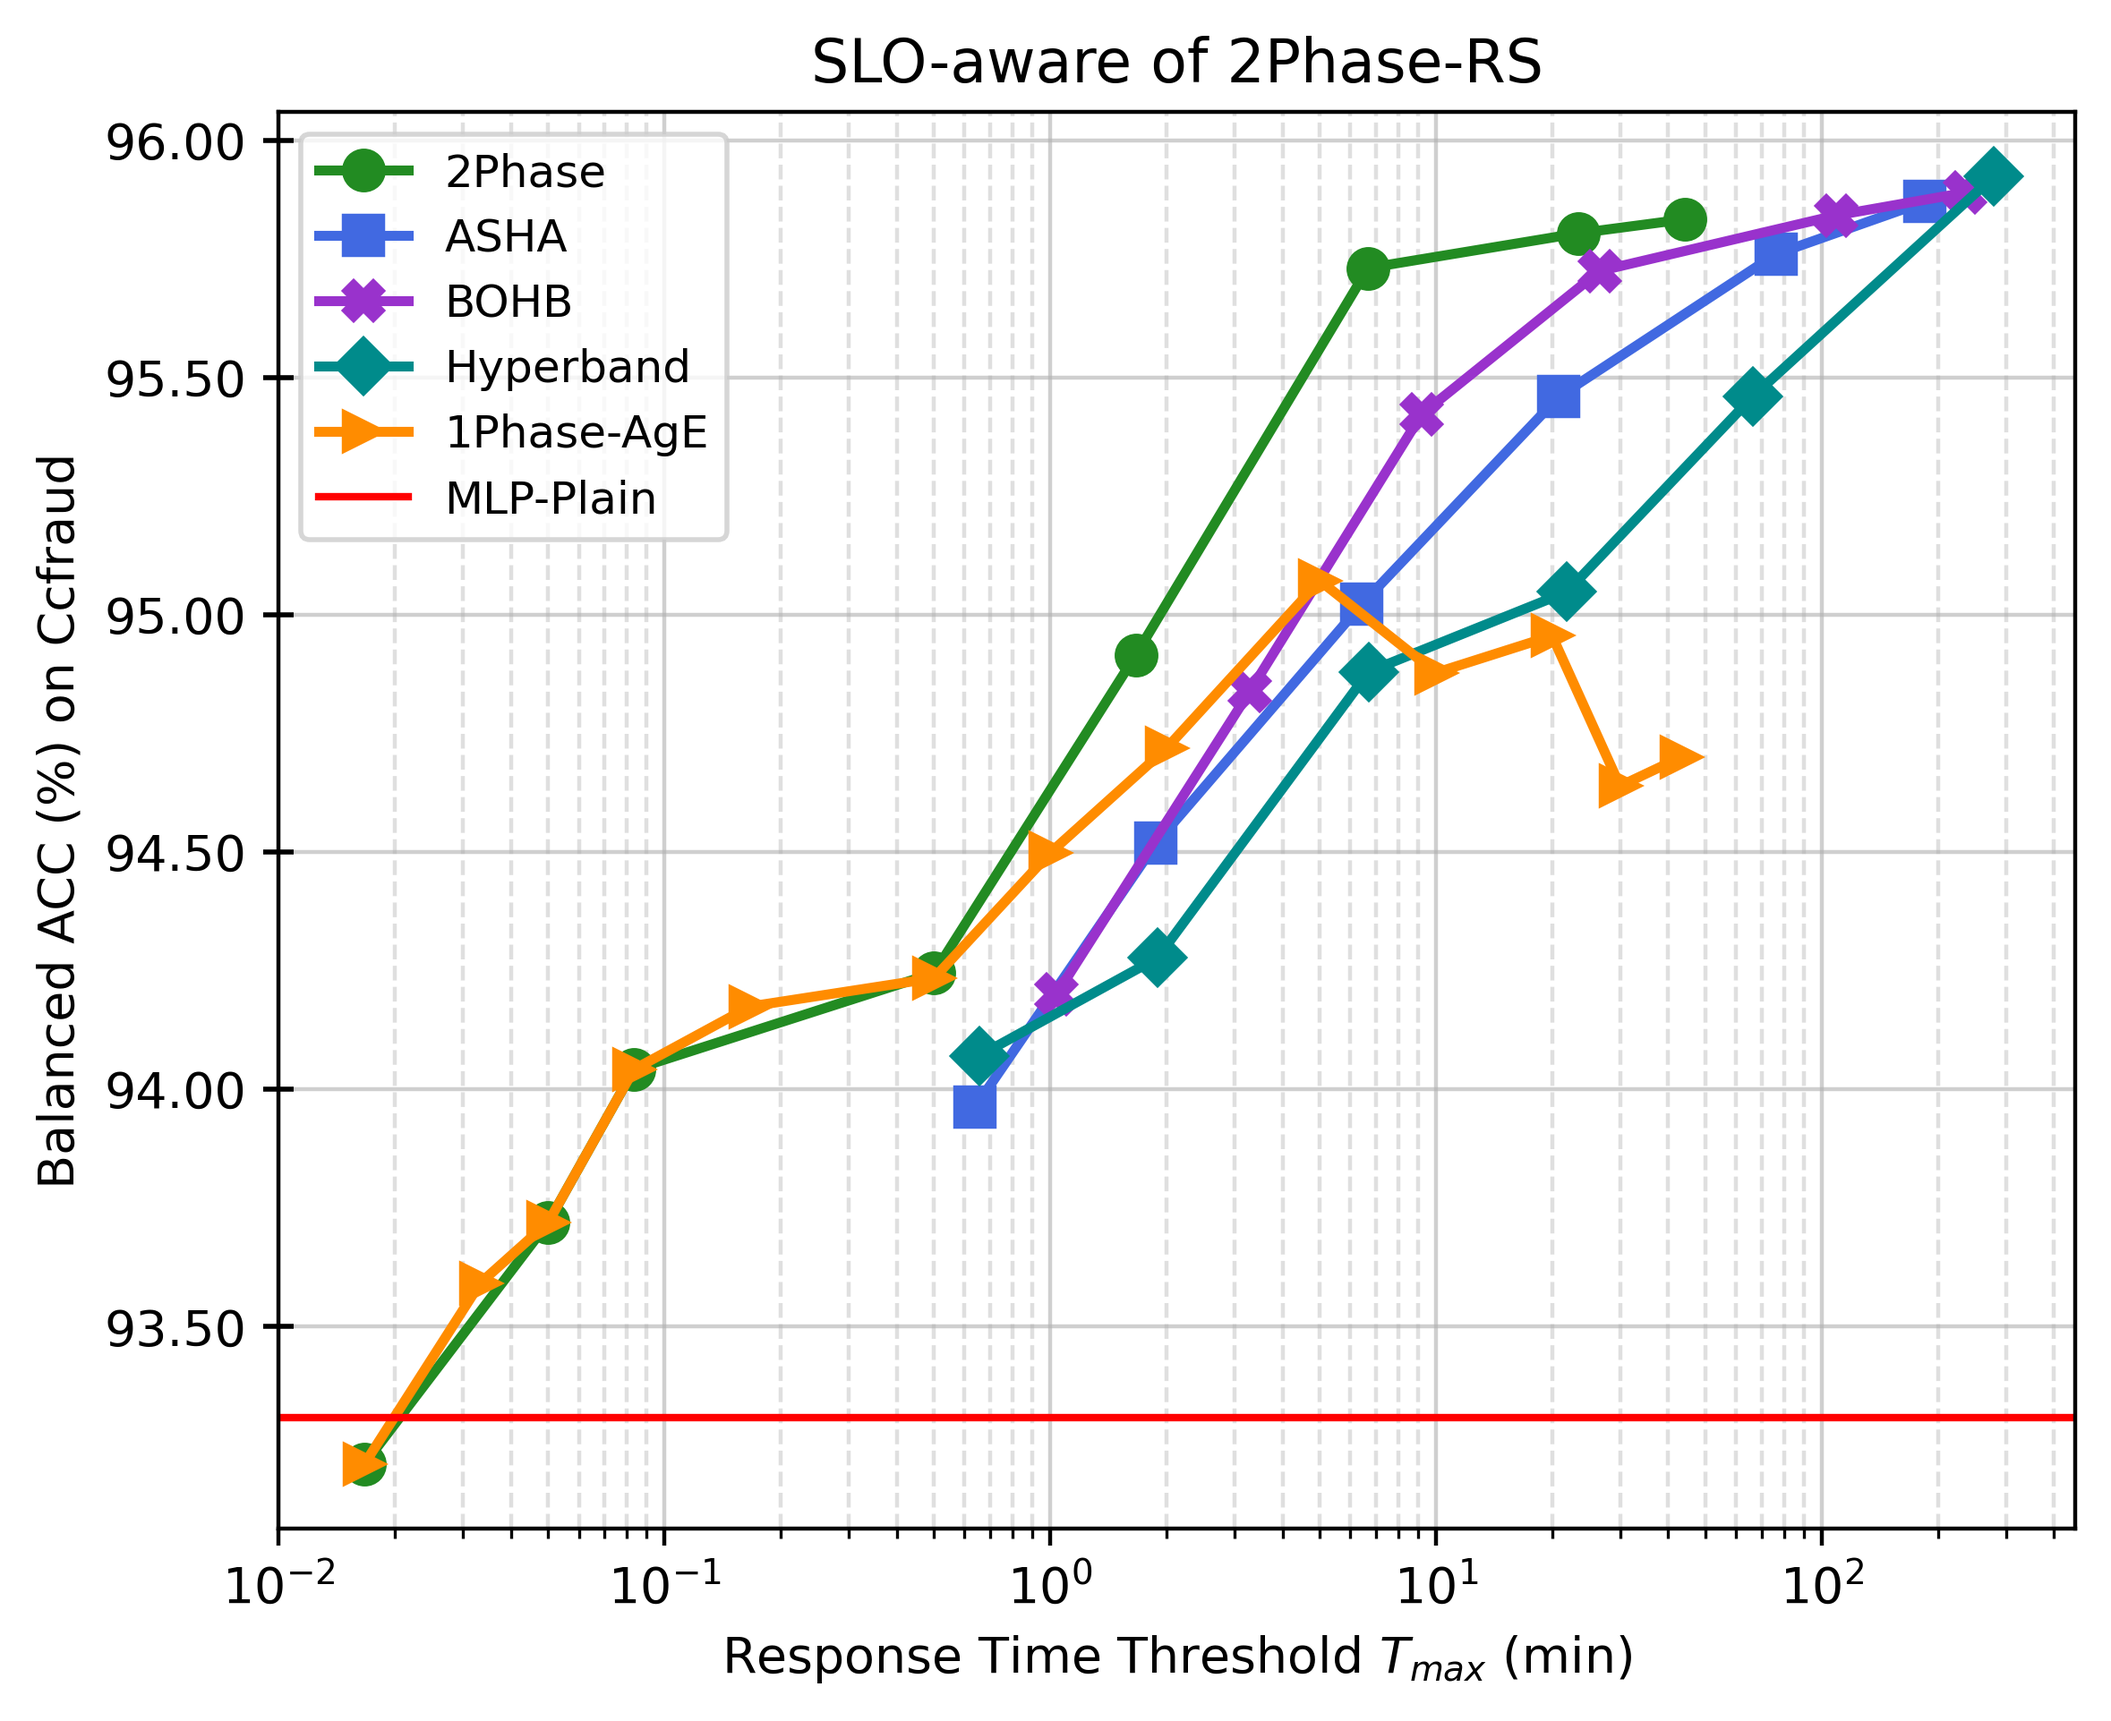
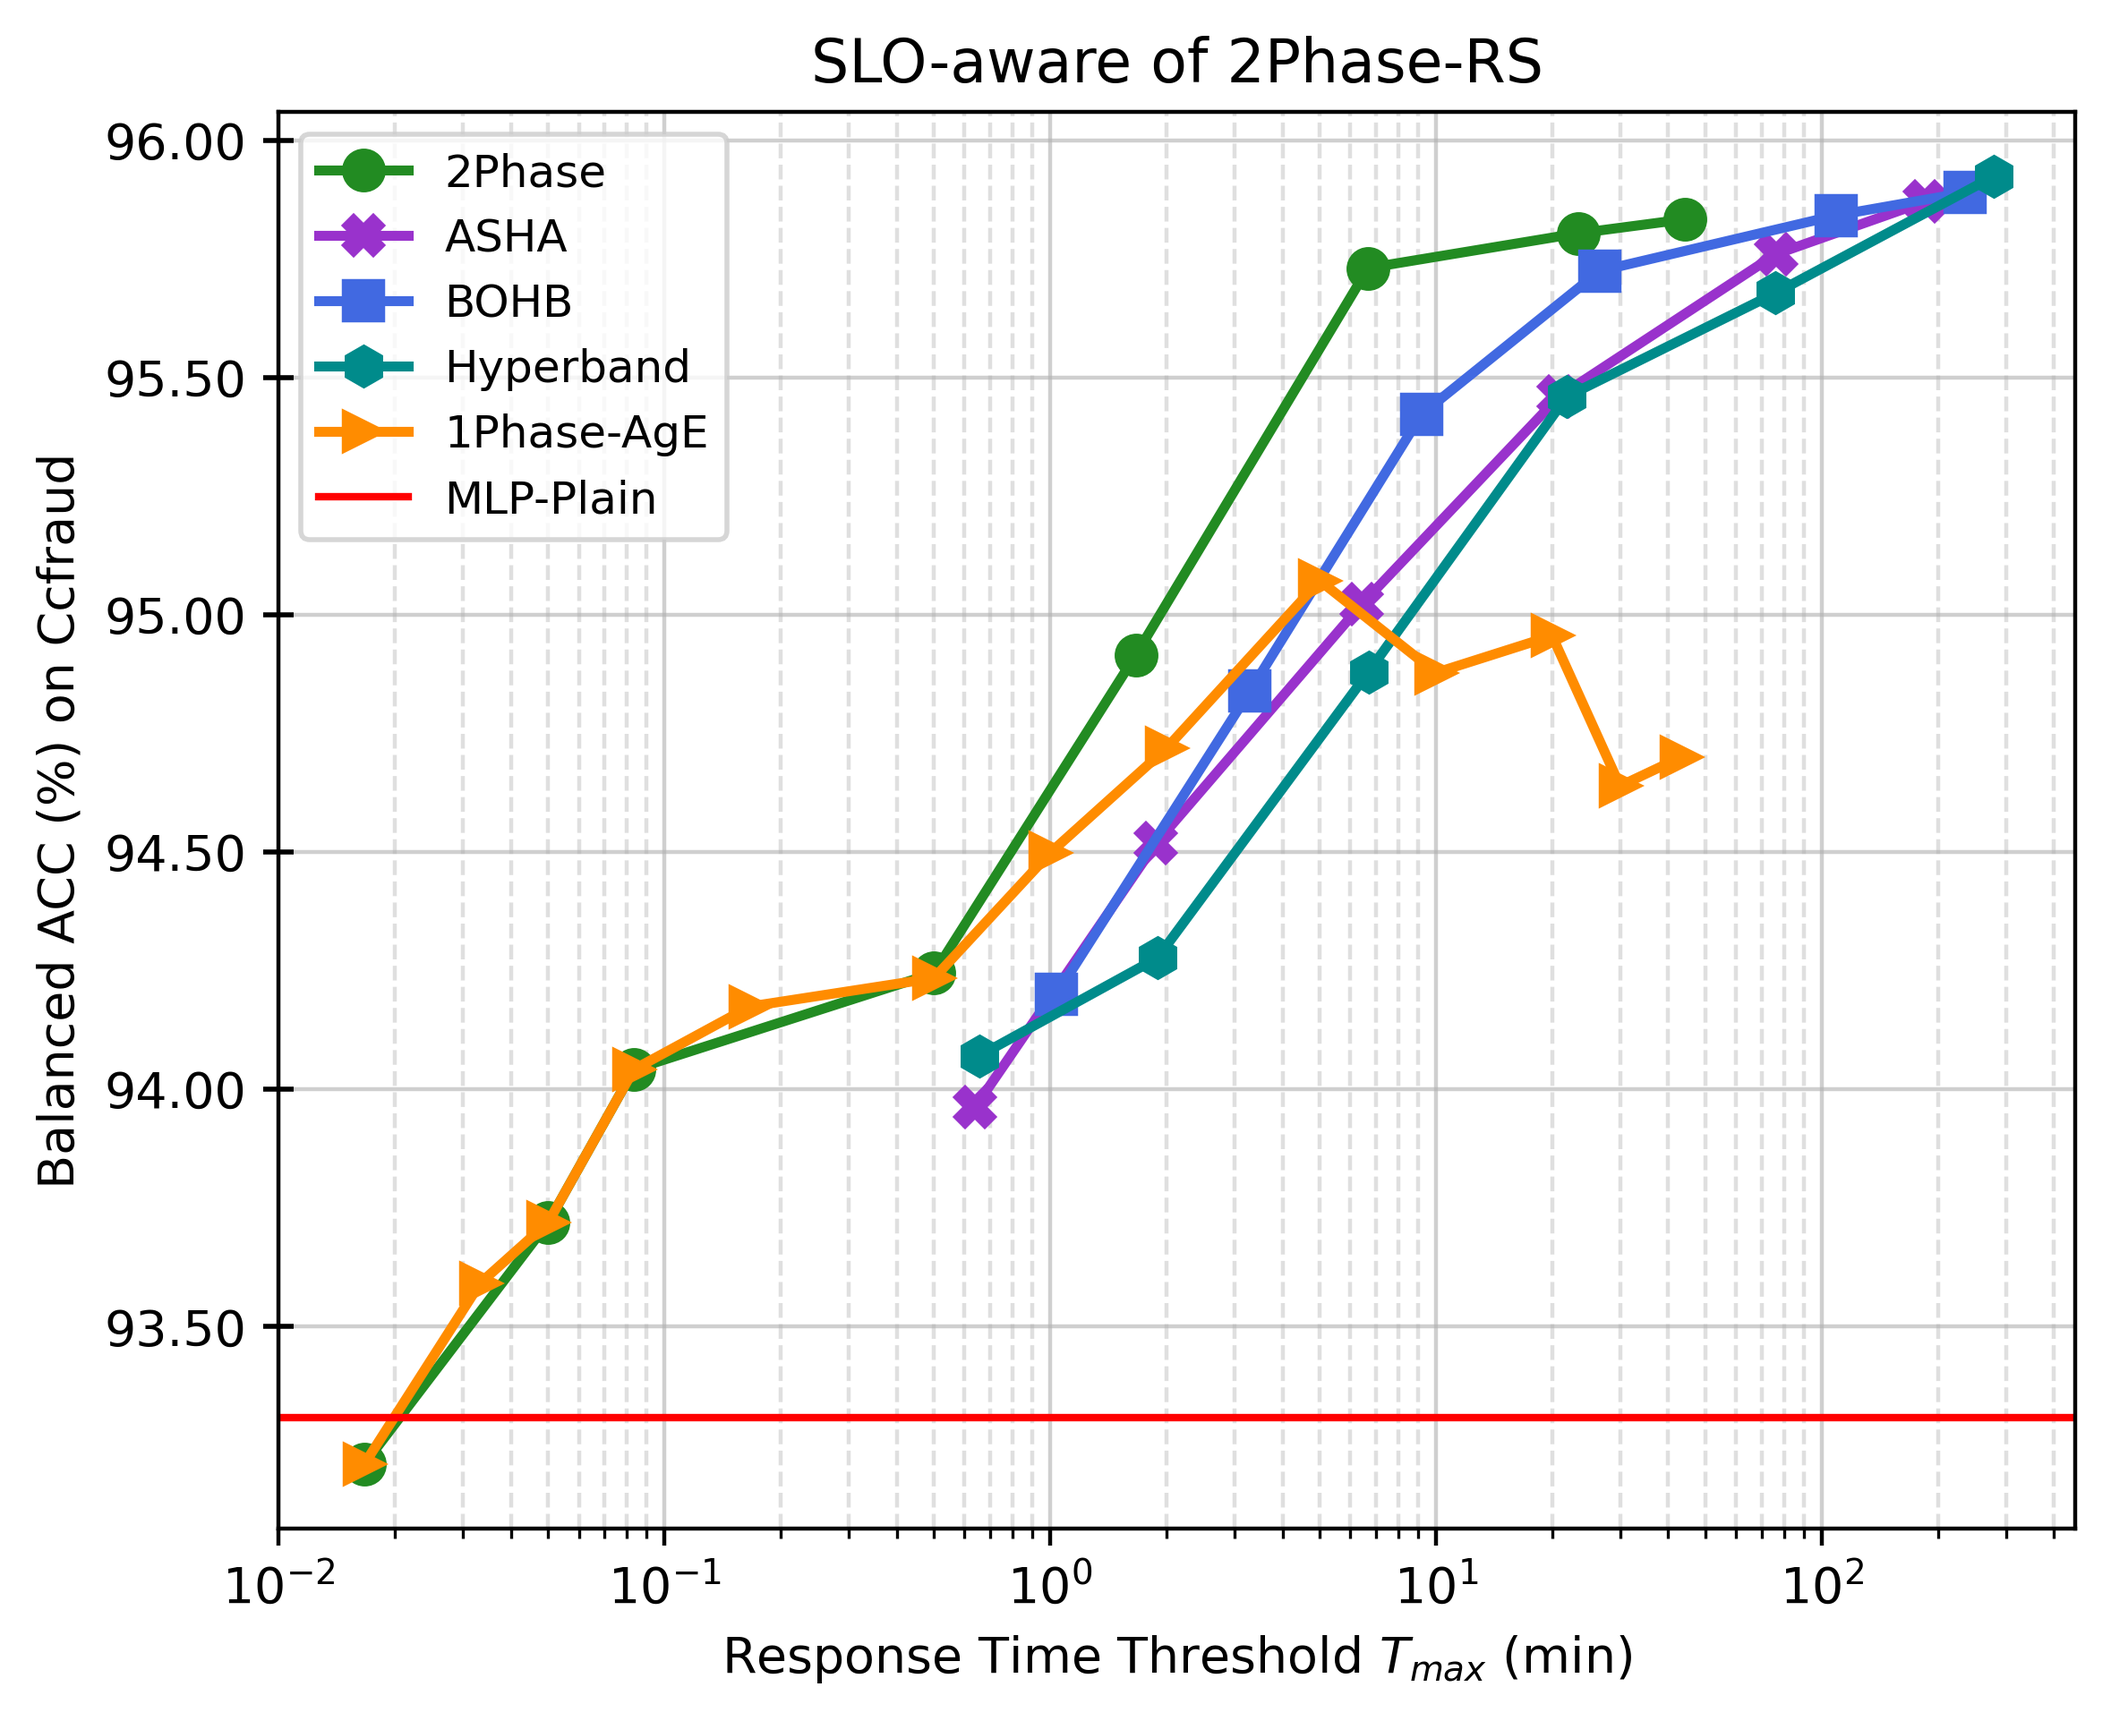
fix

diff --git a/src/eval_engine/profile_benchmark.py b/src/eval_engine/profile_benchmark.py
@@ -1,37 +1,56 @@
+import argparse
 
+from src.eval_engine.reg_selection_time import BudgetAwareCoordinatorSH
+from src.profiling.profiling import get_profile_data
+
+
+def parse_args():
+    parser = argparse.ArgumentParser()
+    parser.add_argument("--dataset", type=str, default="adult")
+    parser.add_argument("--batch_size", type=int, default=64)
+    parser.add_argument("--seed", type=int, default=42)
+    parser.add_argument("--device", type=str, default="cuda")
+    parser.add_argument("--num_cpus", type=int, default=10)
+    parser.add_argument("--num_gpus", type=int, default=4)
+    parser.add_argument("--lr", type=float, default=1e-3)
+    parser.add_argument("--max_epochs", type=int, default=4)
+    parser.add_argument("--num_samples", type=int, default=20)
+    parser.add_argument("--trail_num_cpus", type=int, default=2)
+    parser.add_argument("--trail_num_gpus", type=float, default=1)
+    parser.add_argument("--trail_metric", type=str, default="bacc")
+    parser.add_argument("--trail_mode", type=str, default="max")
+    parser.add_argument("--exp_name", type=str, default="2phase")
+    parser.add_argument("--storage", type=str, default="~/ray_results")
+    parser.add_argument("--reduction_factor", type=int, default=2)
+    parser.add_argument("--population_size", type=int, default=10)
+    parser.add_argument("--sample_size", type=int, default=3)
+    parser.add_argument("--k_n", type=float, default=0.2)
+    parser.add_argument("--max_steps", type=int, default=300)
+    parser.add_argument("--verbose", type=bool, default=False)
+    parser.add_argument("--sample_ratio", type=float, default=0.2)
+    parser.add_argument("--swa_start_epoch", type=int, default=1)
+    parser.add_argument("--budget", type=int, default=28)
+    return parser.parse_args()
 
 if __name__ == '__main__':
+    args = parse_args()
     # T1 * p = t1 * 2000
     res = 663.5360858440399 * 4 / 2000
     print(res)
     # T2 * p = t2 * C * (log_eta (R/U_init) + 1)
     res2 = 882.4773073196411 * 4 / 1200
     print(res2)
-    arr = [1,2,3,4,5,6,7,8,9,10,11,12,13,14,15,16,17,18,19,20,21,22,23,24,25,26,27,28,30,40,50,60,70,80,90,
-           100, 200, 300, 400, 500, 600, 700, 800, 900, 1000, 1200, 1400, 1600, 1800, 2000, 2200, 2400, 2600, 2650]
-    # ------------------------
-    # explorePhase = ExplorePhaseParallel(args)
-    # print("--------" * 10)
-    # num = 500
-    # start = time.time()
-    # for i in range(500):
-    #     t = explorePhase.profiling()
-    #     print(t)
-    # total = time.time() - start
-    # avg_time = total / num
-    # print(avg_time)
-    # ---------------------
-    # exploitPhase = ExploitPhase(args)
-    # print("--------" * 10)
-    # max_epochs = 100
-    # start_time = time.time()
-    # total_time = exploitPhase.profiling(max_epochs)
-    # avg_time = total_time / max_epochs
-    # print("total_time", total_time)
-    # print("avg_time", avg_time)
-    # ---------------------
-    # sh = BudgetAwareCoordinatorSH(args=args, budget=25, explore_profile_time=1.0, exploit_profile_time=6.0)
-    #
-    # res = sh.schedule()
-    # print(res)
-    pass
+
+    # total_budget = args.budget
+    for i in range(1, 1550+1):
+        kv = get_profile_data(dataset= args.dataset)
+        t1 = kv["t1"]
+        t2 = kv["t2"]
+        sh = BudgetAwareCoordinatorSH(args=args, budget=i, explore_profile_time=t1, exploit_profile_time=t2, only_one_phase=True)
+        N, C, B_real, T_real, T1_real, T2_real = sh.schedule()
+        print(N, C, B_real, T_real, T1_real, T2_real)
+
+    # 1,2,3,4,5,6,7,8,9,10,11,12,13
+    # 14,15,16,17.18,19,20,30,40,50,60,70.80,90,
+    # 100,150,200,250,300,350,400,450,500,550,600,650,700,750,800,850,900,950
+    # 1000,1100,1200,1300,1400,1500,1549

diff --git a/src/trainer/trainer.py b/src/trainer/trainer.py
@@ -262,37 +262,37 @@ class Trainer(object):
 
 
 if __name__ == '__main__':
-
+    # {"best_config": {"use_l1": true, "l1_lambda": 0.001, "use_l2": false, "l2_lambda": 0.0, "use_dropout": false, "drop_rate": 0.0, "use_bn": false, "use_ln": true, "use_skip": true, "skip_type": "normal", "skip_step": 1, "skip_drop_prob": 0.0, "use_data_augment": false, "da_type": "None", "cutout_ratio": 0.0, "cutout_prob": 0.0, "mixup_alpha": 0.0, "mixup_prob": 0.0, "cutmix_alpha": 0.0, "cutmix_prob": 0.0, "fgsm_epsilon": 0.0, "fgsm_prob": 0.0, "use_swa": true, "use_lookahead": true}}
     config = {
         "use_l1": True,
-        "l1_lambda": 5e-5,
-        "use_l2": True,
-        "l2_lambda": 0.005,
-        "use_dropout": True,
-        "drop_rate": 0.5,
-        "use_bn": True,
-        "use_ln": False,
+        "l1_lambda": 0.001,
+        "use_l2": False,
+        "l2_lambda": 0.00,
+        "use_dropout": False,
+        "drop_rate": 0.0,
+        "use_bn": False,
+        "use_ln": True,
         "use_skip": True,
         "skip_type": "normal",
         "skip_step": 1,
         "skip_drop_prob": 0.0,
-        "use_data_augment": True,
-        "da_type": "cutmix",
+        "use_data_augment": False,
+        "da_type": "None",
         "cutout_ratio": 0.0,
         "cutout_prob": 0.0,
         "mixup_alpha": 0.0,
         "mixup_prob": 0.0,
-        "cutmix_alpha": 0.8,
-        "cutmix_prob": 0.5,
+        "cutmix_alpha": 0.0,
+        "cutmix_prob": 0.0,
         "fgsm_epsilon": 0.0,
         "fgsm_prob": 0.0,
-        "use_swa": False,
-        "use_lookahead": False,
+        "use_swa": True,
+        "use_lookahead": True,
     }
 
     set_seed(42)
     # 数据准备
-    meta = get_metadata(dataset="adult")
+    meta = get_metadata(dataset="ccfraud")
     in_features = meta["in_features"]
     out_features = meta["out_features"]
     is_balanced = meta["is_balanced"]
@@ -303,7 +303,7 @@ if __name__ == '__main__':
     if not is_balanced:
         weights = compute_class_weights(class_ratio, method="inv")
 
-    train_loader, valid_loader, test_loader = get_adult_dataloader(data_dir=data_dir, batch_size=batch_size)
+    train_loader, valid_loader, test_loader = get_ccfraud_dataloader(data_dir=data_dir, batch_size=batch_size)
     start_time = time.time()
     # 初始化模型
     hidden_features = [512, 512, 512, 512, 512, 512]

diff --git a/src/exp/exp2/util.py b/src/exp/exp2/util.py
@@ -22,20 +22,22 @@ def to_serializable(obj):
     return obj
 
 class BufferedBestSampler(Callback):
-    def __init__(self, metric = "bacc", mode="max", max_epochs=4, start_time = None, log_file = "best_over_time.jsonl", flush_every=100, verbose=True):
+    def __init__(self, exp_name="default", dataset="default", metric = "bacc", mode="max", max_epochs=4, start_time = None, log_file = "best_over_time.jsonl", flush_every=100, verbose=True):
         super(BufferedBestSampler, self).__init__()
         if start_time is None:
             raise ValueError("You MUST provide start_time from outside!")
         self.start_time = start_time
         self.metric = metric
         self.mode = mode
+        self.exp_name = exp_name
+        self.dataset = dataset
 
         self.max_epochs = max_epochs
         self.best_metric = None  # 全局最佳 metric
         self.best_config = None  # 全局最佳 config
         self.best_history = None
         self.verbose = verbose
-        self.default_log_dir = "/data/ruipeng/workdir/autoreg/.exp_results/logs/"
+        self.default_log_dir = f"/data/ruipeng/workdir/autoreg/.exp_results/logs/{self.dataset}/{self.exp_name}/"
         os.makedirs(self.default_log_dir, exist_ok=True)
         self.log_file = os.path.join(self.default_log_dir, log_file)
         self.flush_every = flush_every

diff --git a/src/eval_engine/reg_selection_time.py b/src/eval_engine/reg_selection_time.py
@@ -505,8 +505,8 @@ class BudgetAwareCoordinatorSH:
 
 def parse_args():
     parser = argparse.ArgumentParser()
-    parser.add_argument("--dataset", type=str, default="ccfraud")
-    parser.add_argument("--batch_size", type=int, default=128)
+    parser.add_argument("--dataset", type=str, default="adult")
+    parser.add_argument("--batch_size", type=int, default=64)
     parser.add_argument("--seed", type=int, default=42)
     parser.add_argument("--device", type=str, default="cuda")
     parser.add_argument("--num_cpus", type=int, default=10)
@@ -597,11 +597,3 @@ if __name__ == '__main__':
     append_jsonl(res, "/data/ruipeng/workdir/autoreg/.exp_results/logs/2phase_time_log.jsonl")
     print("保存结果到文件")
     print("=======================================")
-    # total_budget = 50
-    # kv = get_profile_data(dataset= args.dataset)
-    # t1 = kv["t1"]
-    # t2 = kv["t2"]
-    # for b in range(1, total_budget+1):
-    #     sh = BudgetAwareCoordinatorSH(args=args, budget=b, explore_profile_time=t1, exploit_profile_time=t2)
-    #     res = sh.schedule()
-    #     print(res)

diff --git a/src/eval_engine/reg_selection_time_only_one_phase.py b/src/eval_engine/reg_selection_time_only_one_phase.py
@@ -506,8 +506,8 @@ class BudgetAwareCoordinatorSH:
 
 def parse_args():
     parser = argparse.ArgumentParser()
-    parser.add_argument("--dataset", type=str, default="ccfraud")
-    parser.add_argument("--batch_size", type=int, default=128)
+    parser.add_argument("--dataset", type=str, default="adult")
+    parser.add_argument("--batch_size", type=int, default=64)
     parser.add_argument("--seed", type=int, default=42)
     parser.add_argument("--device", type=str, default="cuda")
     parser.add_argument("--num_cpus", type=int, default=10)

diff --git a/script/time_plot.py b/script/time_plot.py
@@ -19,6 +19,7 @@ if __name__ == '__main__':
     plt.figure(figsize=(6, 5))
 
     legend_map = {
+        # /home/zrp/autoreg1/.raw/exp2/ccfraud/draw
         "2Phase": "/data/ruipeng/workdir/autoreg/exp/exp2/ccfraud/2phase_time_log.jsonl",
         "ASHA": "/data/ruipeng/workdir/autoreg/exp/exp2/ccfraud/asha_time_log_extrat.jsonl",
         "BOHB": "/data/ruipeng/workdir/autoreg/exp/exp2/ccfraud/bohb_time_log_extrat.jsonl",

diff --git a/src/exp/exp2/exp2_hyperband.py b/src/exp/exp2/exp2_hyperband.py
@@ -113,6 +113,8 @@ def hyperband_phase(args):
         reduction_factor = args.reduction_factor,
     )
     callback = BufferedBestSampler(
+        exp_name="hyperband",
+        dataset=args.dataset,
         metric="bacc",
         mode="max",
         start_time=start_time,

diff --git a/src/exp/exp2/exp2_asha.py b/src/exp/exp2/exp2_asha.py
@@ -103,6 +103,8 @@ def asha_phase(args):
         reduction_factor=args.reduction_factor,
     )
     callback = BufferedBestSampler(
+        exp_name="asha",
+        dataset=args.dataset,
         metric="bacc",
         mode="max",
         start_time=start_time,

diff --git a/src/exp/exp2/exp2_bohb.py b/src/exp/exp2/exp2_bohb.py
@@ -116,6 +116,8 @@ def bohb_phase(args):
     )
 
     callback = BufferedBestSampler(
+        exp_name="bohb",
+        dataset=args.dataset,
         metric="bacc",
         mode="max",
         start_time=start_time,
